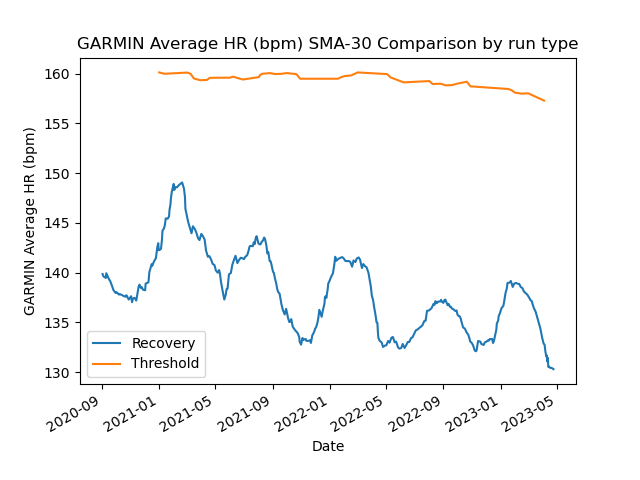
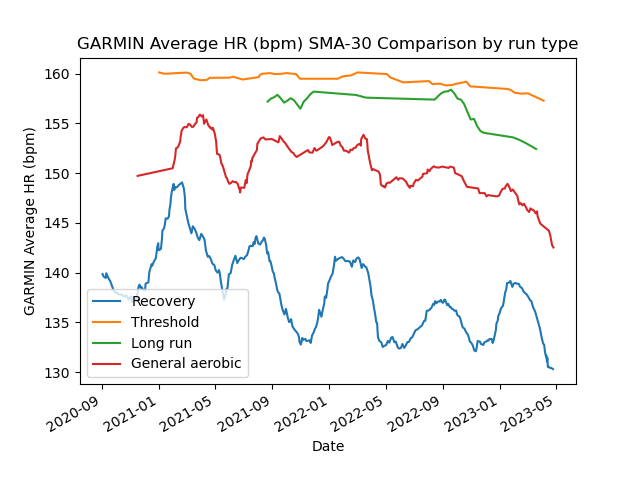
added more run types to pace sma-30 comparison chart

diff --git a/plot.py b/plot.py
@@ -71,6 +71,9 @@ def single_variable_time_series(df, variable, color):
 def multi_variable_time_series(df, variable):
 	''' Plot data by the type of run'''
 	
+	# Turn off SettingWithCopyWarning (dataquest.io)
+	pd.set_option('mode.chained_assignment', None)
+	
 	if variable == "Pace (min per mile)":
 		df = data_manipulations.convert_pace(df)
 	
@@ -79,7 +82,14 @@ def multi_variable_time_series(df, variable):
 	
 	runtype2 = "Threshold"
 	df2 = data_manipulations.select_run_type(df, [runtype2])
+
+	runtype3 = "Long run"
+	df3 = data_manipulations.select_run_type(df, [runtype3])
+
+	runtype4 = "General aerobic"
+	df4 = data_manipulations.select_run_type(df, [runtype4])
 	
+
 	fig = plt.figure()
  
 	#ax1 = df1[variable].dropna().plot(marker='.', linewidth=1, color='m', legend=True, label=runtype1)
@@ -90,6 +100,12 @@ def multi_variable_time_series(df, variable):
 
 	df2[runtype2] = df2[variable].rolling(30, min_periods=15).mean()
 	ax1 = df2[runtype2].plot(legend=True)
+
+	df3[runtype3] = df3[variable].rolling(30, min_periods=15).mean()
+	ax1 = df3[runtype3].plot(legend=True)
+
+	df4[runtype4] = df4[variable].rolling(30, min_periods=15).mean()
+	ax1 = df4[runtype4].plot(legend=True)
 
 	plt.title(variable + ' SMA-30 Comparison by run type')
 	plt.xlabel('Date')
@@ -130,6 +146,42 @@ def overlay_time_series(df, variable1, variable2):
 	
 	return
 
+'''
+def by_run_type(df, variable):
+	 Plot data by the type of run
+	
+	if variable == "Pace (min per mile)":
+		df = data_manipulations.convert_pace(df)
+	
+	runtype1 = "Recovery"
+	df1 = data_manipulations.select_run_type(df, [runtype1])
+	
+	runtype2 = "Threshold"
+	df2 = data_manipulations.select_run_type(df, [runtype2])
+
+	runtype3 = "Long run"
+	df3 = data_manipulations.select_run_type(df, [runtype3])
+
+	runtype4 = "General aerobic"
+	df4 = data_manipulations.select_run_type(df, [runtype4])
+	
+	fig = plt.figure()
+ 
+	ax1 = df1[variable].dropna().plot(marker='.', linewidth=1, color='m', legend=True, label=runtype1)
+	ax1 = df2[variable].dropna().plot(marker='.', linewidth=1, color='c', legend=True, label=runtype2)
+	ax1 = df3[variable].dropna().plot(marker='.', linewidth=1, color='purple', legend=True, label=runtype3)
+	ax1 = df4[variable].dropna().plot(marker='.', linewidth=1, color='olive', legend=True, label=runtype4)
+
+	plt.title(variable + ' Comparison by run type')
+	plt.xlabel('Date')
+	plt.ylabel(variable)
+
+	path = "/home/ocros03/Website/static/"
+	plt.savefig(path + variable + " Comparison by run type.png")
+	plt.close()
+
+	return
+'''
 
 if __name__ == '__main__':
 	main()

diff --git a/runstats.py b/runstats.py
@@ -21,7 +21,6 @@ def main():
 
 	hr(df)
 	pace(df)
-	by_run_type(df)
 	
 	return
 
@@ -46,35 +45,9 @@ def pace(df):
 
 	plot.single_variable_time_series(df, variable, 'g')
 	plot.multi_variable_time_series(df, variable)
+
+	df = data_manipulations.select_run_type(df, ["Medium long"])
 	plot.year_over_year(df, variable)
-
-	return
-
-
-def by_run_type(df, variable):
-	''' Plot data by the type of run'''
-	
-	if variable == "Pace (min per mile)":
-		df = data_manipulations.convert_pace(df)
-	
-	runtype1 = "Recovery"
-	df1 = data_manipulations.select_run_type(df, [runtype1])
-	
-	runtype2 = "Threshold"
-	df2 = data_manipulations.select_run_type(df, [runtype2])
-	
-	fig = plt.figure()
- 
-	ax1 = df1[variable].dropna().plot(marker='.', linewidth=1, color='m', legend=True, label=runtype1)
-	ax1 = df2[variable].dropna().plot(marker='.', linewidth=1, color='c', legend=True, label=runtype2)
-
-	plt.title(variable + ' Comparison by run type')
-	plt.xlabel('Date')
-	plt.ylabel(variable)
-
-	path = "/home/ocros03/Website/static/"
-	plt.savefig(path + variable + " Comparison by run type.png")
-	plt.close()
 
 	return
 

diff --git a/run_all.py b/run_all.py
@@ -18,7 +18,7 @@ def main():
 	''' Load dataframe from csv file'''
 
 	# Download latest Google Sheet data as a csv file
-	load.get_url()
+	#load.get_url()
 
 	# Load csv file to a pandas dataframe
 	filename = 'trainingLog.csv'
@@ -50,8 +50,7 @@ def run_stats(df):
 	print("Calculating run stats...")
 	runstats.hr(df)
 	runstats.pace(df)
-	#runstats.by_run_type(df, "GARMIN Average HR (bpm)")
-	
+		
 	return
 
 
